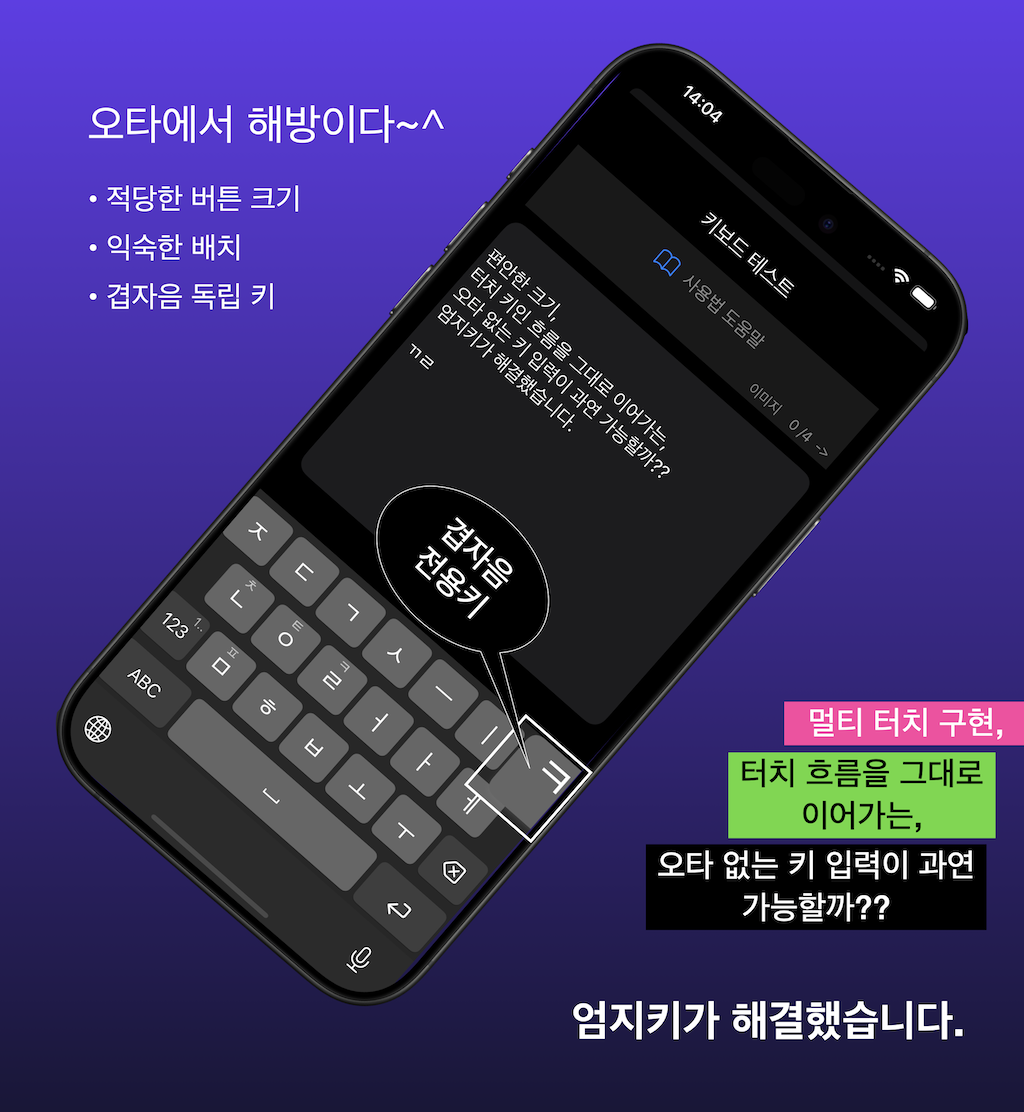
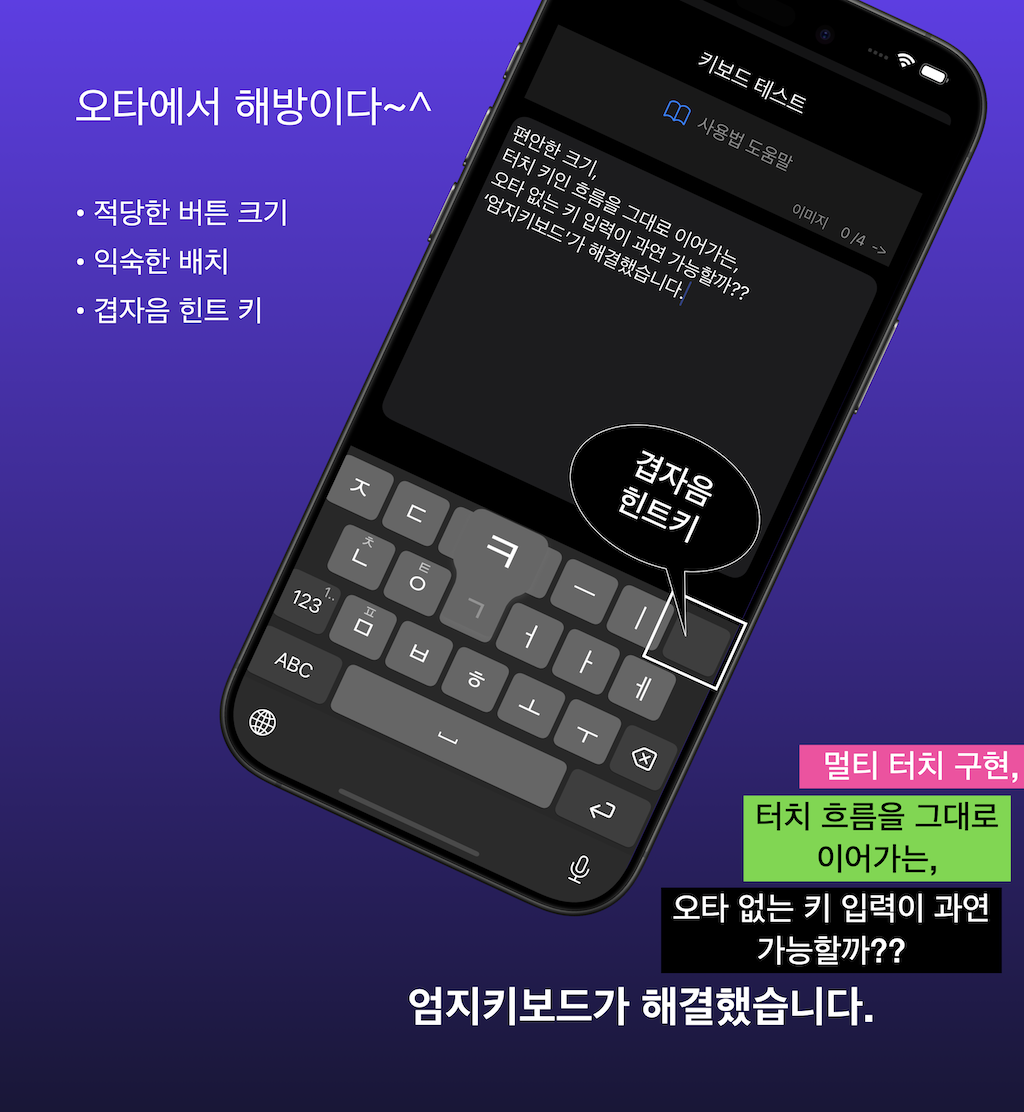
Add files via upload

diff --git a/manual.html b/manual.html
@@ -5,31 +5,30 @@
 	<meta name="viewport" content="width=device-width, initial-scale=1">
 	<meta name="generator" content="RocketCake">
 	<title></title>
-	<link rel="stylesheet" type="text/css" href="manual_html.css?h=e49b37a9">
+	<link rel="stylesheet" type="text/css" href="manual_html.css?h=509e1b2b">
 </head>
 <body>
 <div class="textstyle1">
-<div id="container_3a41f573"><div class="textstyle1"><div id="container_3ca14934"><div id="container_3ca14934_padding" ><div class="textstyle2"><div id="container_2e18e390"><div id="container_2e18e390_padding" ><div class="textstyle2"></div>
-<div class="textstyle1">  <span class="textstyle3">&#50628;&#51648;&#53412;&#48372;&#46300;</span>
+<span class="textstyle2">ZZZ</span><div id="container_3a41f573"><div class="textstyle1"><div id="container_3ca14934"><div id="container_3ca14934_padding" ><div class="textstyle3"><div id="container_2e18e390"><div id="container_2e18e390_padding" ><div class="textstyle3"></div>
+<div class="textstyle1">  <span class="textstyle4">&#50628;&#51648;&#53412;&#48372;&#46300;</span>
 </div>
-</div></div><div id="container_5e11d928"><div class="textstyle4"><div id="container_2d7b4969"><div class="textstyle4"><span class="textstyle5"><a href="index.html">Home</a></span><span class="textstyle5"><br/></span><span class="textstyle5"><a href="about.html">About</a></span><span class="textstyle5"><br/></span><span class="textstyle5"><a href="contact.html">Contact</a></span><span class="textstyle5"><br/></span><span class="textstyle6"><a href="manual.html">Manual</a></span><span class="textstyle5"><br/></span></div>
+</div></div><div id="container_5e11d928"><div class="textstyle5"><div id="container_2d7b4969"><div class="textstyle5"><span class="textstyle6"><a href="index.html">Home</a></span><span class="textstyle6"><br/></span><span class="textstyle6"><a href="about.html">About</a></span><span class="textstyle6"><br/></span><span class="textstyle6"><a href="contact.html">Contact</a></span><span class="textstyle6"><br/></span><span class="textstyle7"><a href="manual.html">Manual</a></span><span class="textstyle6"><br/></span></div>
+<div class="textstyle3"><span class="textstyle2"><br/></span></div>
 </div></div>
 </div></div>
-<div style="clear:both"></div></div></div><div id="container_42e1be39"><div class="textstyle1"><img src="rc_images/eumjikey1_wide_0021____.png" width="1024" height="1112" id="img_1a386bfe" alt="" title="" /></div>
-</div><span class="textstyle7"><br/></span><span class="textstyle8"><br/></span><div id="container_541cc4d"><div id="container_541cc4d_padding" ><div class="textstyle2"><span class="textstyle9"><br/></span><span class="textstyle10">&#8226; &#52488;&#49457;&#44284; &#51333;&#49457;&#51032; &#44217;&#51088;&#49548;&#47484; &#48516;&#47532;&#54616;&#44192;&#45796;&#45716; &#48516;&#47749;&#54620; &#51032;&#51648;&#44032; &#48152;&#50689;&#46104;&#45716; &#53412;&#48372;&#46300; &#44508;&#52825;&#51060; &#51080;&#49845;&#45768;&#45796; <br/>&#8226; &#51088;&#49548; &#44208;&#54633;&#51012; &#48736;&#47476;&#44172; &#54624; &#49688; &#51080;&#49845;&#45768;&#45796; <br/>&#8226; &#52488;&#49457; &#48143; &#51473;&#49457;&#51008; &#46160; &#44060;&#51032; &#50628;&#51648;&#47196; &#51032;&#49885;&#51201; &#47932;&#47532;&#51201;&#51004;&#47196; &#48516;&#47532;&#46104;&#50612; &#51080;&#51020;&#51012; &#44048;&#50504;&#54616;&#50688;&#49845;&#45768;&#45796; &#160;<br/>&#8226; &#47680;&#54000; &#53552;&#52824;&#44032; &#46120;&#51004;&#47196;&#50024; &#51088;&#50672;&#49828;&#47084;&#50868; &#53412; &#51077;&#47141;&#51060; &#46104;&#46020;&#47197; &#54616;&#50688;&#49845;&#45768;&#45796;</span><span class="textstyle11"> </span><span class="textstyle9"><br/><br/><br/><br/></span><span class="textstyle12">&#50628;&#51648;&#53412;&#48372;&#46300; &#47700;&#45684;&#50620;</span><span class="textstyle9"><br/><br/><br/></span><img src="rc_images/eumjikey_light_keynote_001.png" width="660" height="611" id="img_4b4e21bc" alt="" title="" /><div id="container_b26edf4"><div id="container_b26edf4_padding" ><div class="textstyle2">  <span class="textstyle13">&#44217;&#51088;&#51020; &#51204;&#50857;&#53412; </span>
-<span class="textstyle9"><br/></span><span class="textstyle11"><br/>1. &#51088;&#51020;&#51004;&#47196; &#44396;&#49457;&#46108; &#52488;&#49457;&#44284; &#51333;&#49457;&#51032; &#44217;&#51088;&#51020;(&#12594;, &#12619;...)&#51012; &#49373;&#49457;&#54616;&#45716; &#48324;&#46020;&#51032; &#44508;&#52825;&#51060; &#51080;&#49845;&#45768;&#45796;<br/>-&gt; &#44217;&#51088;&#51020; &#51204;&#50857;&#53412;&#47484; &#47676;&#51200;&#45572;&#47476;&#44256; &#54644;&#45817;&#53412;&#47484; &#54632;&#44760; &#46608;&#45716; &#49692;&#49436;&#45824;&#47196; &#45572;&#47493;&#45768;&#45796; <br/><br/>2. &#47784;&#51020;&#51064; &#51473;&#49457; &#49933;&#51088;&#49548;&#45716;(&#12629;, &#12635;...)&#45716;  '&#12627;', '&#12631;'&#47484; &#45908;&#48660;&#53364;&#47533;&#54633;&#45768;&#45796; <br/><br/>&#51060;&#47196;&#50024; '&#54617;&#44368;'&#50752; &#44057;&#51060; '&#12593;' '&#12593;'&#51012; &#48736;&#47476;&#44172; &#51077;&#47141;&#54616;&#50668;&#46020; &#50724;&#53440;&#44032; &#48156;&#49373;&#54616;&#51648; &#50506;&#44256; &#53412; &#51077;&#47141; &#49549;&#46020; &#46608;&#54620; &#48736;&#47493;&#45768;&#45796;   </span></div>
-</div></div><span class="textstyle9"><br/><br/><br/></span><img src="rc_images/eumjikey_light_keynote_002.png" width="658" height="486" id="img_7fa5239b" alt="" title="" /><div id="container_5ed9721c"><div id="container_5ed9721c_padding" ><div class="textstyle2"><span class="textstyle13">&#44217;&#51088;&#51020; '&#12619;' &#47564;&#46308;&#44592; 1)</span><span class="textstyle9"><br/></span><span class="textstyle11"><br/>&#44217;&#51088;&#51020; &#51204;&#50857;&#53412;(&#47676;&#51200; &#45572;&#47492;)&#50752; '&#12601;' &#53412;&#47484; &#54632;&#44760; &#45572;&#47476;&#44144;&#45208; &#46041;&#49884;&#50640; &#45572;&#47476;&#47732; &#46121;&#45768;&#45796;</span></div>
-</div></div><span class="textstyle9"><br/><br/><br/></span><img src="rc_images/eumjikey_light_keynote_003.png" width="658" height="488" id="img_15f9c727" alt="" title="" /><div id="container_4c8cc367"><div id="container_4c8cc367_padding" ><div class="textstyle2"><span class="textstyle13">&#44217;&#51088;&#51020; &#8216;&#12619;&#8217; &#47564;&#46308;&#44592; 2)</span><span class="textstyle11"><br/><br/>&#8216;&#12601;&#8217; &#53412;&#47484; 1&#52488; &#51060;&#49345; &#45572;&#47476;&#47732; &#46160; &#48264;&#51704; &#53412;&#47484; &#49440;&#53469;&#54624; &#49688; &#51080;&#49845;&#45768;&#45796;</span></div>
-</div></div><span class="textstyle9"><br/><br/><br/></span><img src="rc_images/eumjikey_light_keynote_004.png" width="652" height="487" id="img_1b166e26" alt="" title="" /><div id="container_4fe2a894"><div id="container_4fe2a894_padding" ><div class="textstyle2"><span class="textstyle13">&#49772;&#54532;&#53944;&#53412;(up&#53412;) &#49440;&#53469; 1)</span><span class="textstyle11"><br/><br/>&#50696;) ' ~ &#8216; &#53412;&#47484; &#50948;&#54644; ' &#12601; '&#53412;&#47484; &#45572;&#47476;&#51088; &#47560;&#51088; &#50948;&#47196; &#53909;&#44200; &#50732;&#47532;&#44592; &#54633;&#45768;&#45796;<br/></span></div>
-</div></div><span class="textstyle9"><br/><br/><br/></span><img src="rc_images/eumjikey_light_keynote_005.png" width="656" height="490" id="img_297d27c3" alt="" title="" /><div id="container_5a2c13b7"><div id="container_5a2c13b7_padding" ><div class="textstyle2"><span class="textstyle13">&#49772;&#54532;&#53944;&#53412;(up&#53412;) &#49440;&#53469; 2)</span><span class="textstyle11"><br/><br/>&#8216;123&#8217;&#53412;&#47484; 0.5&#52488; &#51060;&#49345; &#45572;&#47480; &#52292;&#47196; &#50628;&#51648;&#47484; '&#12601;' &#50948;&#52824;&#47196; &#45132;&#50612; &#49440;&#53469;&#54616;&#44144;&#45208; &#45796;&#47480; &#49552;&#44032;&#46973;&#51004;&#47196; &#45572;&#47493;&#45768;&#45796;</span></div>
-</div></div><span class="textstyle9"><br/><br/><br/></span><img src="rc_images/eumjikey_light_keynote_006.png" width="660" height="491" id="img_353a5805" alt="" title="" /><div id="container_7e510c81"><div id="container_7e510c81_padding" ><div class="textstyle2">  <span class="textstyle11">&#50628;&#51648;&#47484; &#46524;&#51648; &#50506;&#44256; &#45796;&#47480; &#50628;&#51648;&#47196; &#51088;&#49548;&#47484; &#45572;&#47476;&#45716; &#48373;&#49688; &#45572;&#47492; &#50756;&#48317; &#44396;&#54788;&#51004;&#47196; <br/>&#51088;&#49548; &#44208;&#54633;&#51060; &#48736;&#47476;&#44256; &#53412;&#51064;&#51060; &#48512;&#46300;&#47084;&#50864;&#47728; &#51088;&#50672;&#49828;&#47101;&#49845;&#45768;&#45796;</span>
+<div style="clear:both"></div></div></div><div id="container_42e1be39"><div class="textstyle3"><img src="rc_images/eumjikey_dark_wide_____002.png" width="1024" height="1112" id="img_1001a78e" alt="" title="" /></div>
+</div><span class="textstyle8"><br/></span><span class="textstyle9"><br/></span><div id="container_541cc4d"><div id="container_541cc4d_padding" ><div class="textstyle3"><span class="textstyle2"><br/></span><span class="textstyle10">&#8226; &#52488;&#49457;&#44284; &#51333;&#49457;&#51032; &#44217;&#51088;&#49548;&#47484; &#48516;&#47532;&#54616;&#44192;&#45796;&#45716; &#48516;&#47749;&#54620; &#51032;&#51648;&#44032; &#48152;&#50689;&#46104;&#45716; &#53412;&#48372;&#46300; &#44508;&#52825;&#51060; &#51080;&#49845;&#45768;&#45796; <br/>&#8226; &#51088;&#49548; &#44208;&#54633;&#51012; &#48736;&#47476;&#44172; &#54624; &#49688; &#51080;&#49845;&#45768;&#45796; <br/>&#8226; &#52488;&#49457; &#48143; &#51473;&#49457;&#51008; &#46160; &#44060;&#51032; &#50628;&#51648;&#47196; &#51032;&#49885;&#51201; &#47932;&#47532;&#51201;&#51004;&#47196; &#48516;&#47532;&#46104;&#50612; &#51080;&#51020;&#51012; &#44048;&#50504;&#54616;&#50688;&#49845;&#45768;&#45796; &#160;<br/>&#8226; &#47680;&#54000; &#53552;&#52824;&#44032; &#46120;&#51004;&#47196;&#50024; &#51088;&#50672;&#49828;&#47084;&#50868; &#53412; &#51077;&#47141;&#51060; &#46104;&#46020;&#47197; &#54616;&#50688;&#49845;&#45768;&#45796;</span><span class="textstyle11"> </span><span class="textstyle2"><br/><br/><br/><br/></span><span class="textstyle12">&#50628;&#51648;&#53412;&#48372;&#46300; &#47700;&#45684;&#50620;</span><span class="textstyle2"><br/></span><img src="rc_images/eumjikey_light_____001.png" width="660" height="599" id="img_76dfdc81" alt="" title="" /><div id="container_b26edf4"><div id="container_b26edf4_padding" ><div class="textstyle3">  <span class="textstyle13">&#44217;&#51088;&#51020; &#55180;&#53944; &#53412; </span>
+<span class="textstyle2"><br/></span><span class="textstyle11"><br/>1. &#51088;&#51020;&#51004;&#47196; &#44396;&#49457;&#46108; &#52488;&#49457;&#44284; &#51333;&#49457;&#51032; &#44217;&#51088;&#51020;(&#12594;, &#12619;...)&#51012; &#49373;&#49457;&#54616;&#45716; &#48324;&#46020;&#51032; &#44508;&#52825;&#51060; &#51080;&#49845;&#45768;&#45796;<br/>-&gt; &#44217;&#51088;&#51020; &#55180;&#53944;&#53412;&#47484; &#47676;&#51200;&#45572;&#47476;&#44256; &#54644;&#45817;&#53412;&#47484; &#45572;&#47476;&#44144;&#45208; &#50577;&#49552;&#51004;&#47196; &#54632;&#44760; &#45572;&#47493;&#45768;&#45796; <br/><br/>2. &#47784;&#51020;&#51064; &#51473;&#49457; &#44217;&#51088;&#49548;&#45716;(&#12629;, &#12635;...)&#45716;  '&#12627;', '&#12631;'&#47484; &#45908;&#48660;&#53364;&#47533;&#54633;&#45768;&#45796; <br/><br/>&#51060;&#47196;&#50024; '&#54617;&#44368;'&#50752; &#44057;&#51060; '&#12593;' '&#12593;'&#51012; &#48736;&#47476;&#44172; &#51077;&#47141;&#54616;&#50668;&#46020; &#50724;&#53440;&#44032; &#48156;&#49373;&#54616;&#51648; &#50506;&#44256; &#53412; &#51077;&#47141; &#49549;&#46020; &#46608;&#54620; &#48736;&#47493;&#45768;&#45796;   </span></div>
+</div></div><span class="textstyle2"><br/><br/><br/></span><img src="rc_images/eumjikey_light_____002.png" width="660" height="515" id="img_78055da2" alt="" title="" /><div id="container_5ed9721c"><div id="container_5ed9721c_padding" ><div class="textstyle3"><span class="textstyle13">&#44217;&#51088;&#51020; '&#12619;' &#47564;&#46308;&#44592; 1)</span><span class="textstyle2"><br/></span><span class="textstyle11"><br/>&#44217;&#51088;&#51020; &#55180;&#53944;&#53412;(&#47676;&#51200; &#45572;&#47492;) + '&#12593;' &#53412;&#47484; &#45572;&#47476;&#44144;&#45208; &#50577;&#49552;&#51004;&#47196; &#46041;&#49884;&#50640; &#45572;&#47476;&#47732; &#46121;&#45768;&#45796;</span></div>
+</div></div><span class="textstyle2"><br/><br/><br/></span><img src="rc_images/eumjikey_light_keynote_003.png" width="658" height="488" id="img_15f9c727" alt="" title="" /><div id="container_4c8cc367"><div id="container_4c8cc367_padding" ><div class="textstyle3"><span class="textstyle13">&#44217;&#51088;&#51020; &#8216;&#12619;&#8217; &#47564;&#46308;&#44592; 2)</span><span class="textstyle11"><br/><br/>&#8216;&#12601;&#8217; &#53412;&#47484; 1&#52488; &#51060;&#49345; &#45572;&#47476;&#47732; &#46160; &#48264;&#51704; &#53412;&#47484; &#49440;&#53469;&#54624; &#49688; &#51080;&#49845;&#45768;&#45796;</span></div>
+</div></div><span class="textstyle2"><br/><br/><br/></span><img src="rc_images/eumjikey_light_keynote_004.png" width="652" height="487" id="img_1b166e26" alt="" title="" /><div id="container_4fe2a894"><div id="container_4fe2a894_padding" ><div class="textstyle3"><span class="textstyle13">&#49772;&#54532;&#53944;&#53412;(up&#53412;) &#49440;&#53469; 1)</span><span class="textstyle11"><br/><br/>&#50696;) ' ~ &#8216; &#53412;&#47484; &#50948;&#54644; ' &#12601; '&#53412;&#47484; &#45572;&#47476;&#51088; &#47560;&#51088; &#50948;&#47196; &#53909;&#44200; &#50732;&#47532;&#44592; &#54633;&#45768;&#45796;<br/></span></div>
+</div></div><span class="textstyle2"><br/><br/><br/></span><img src="rc_images/eumjikey_light_keynote_005.png" width="656" height="490" id="img_297d27c3" alt="" title="" /><div id="container_5a2c13b7"><div id="container_5a2c13b7_padding" ><div class="textstyle3"><span class="textstyle13">&#49772;&#54532;&#53944;&#53412;(up&#53412;) &#49440;&#53469; 2)</span><span class="textstyle11"><br/><br/>&#8216;123&#8217;&#53412;&#47484; 0.5&#52488; &#51060;&#49345; &#45572;&#47480; &#52292;&#47196; &#50628;&#51648;&#47484; '&#12601;' &#50948;&#52824;&#47196; &#45132;&#50612; &#49440;&#53469;&#54616;&#44144;&#45208; &#45796;&#47480; &#49552;&#44032;&#46973;&#51004;&#47196; &#45572;&#47493;&#45768;&#45796;</span></div>
+</div></div><span class="textstyle2"><br/><br/><br/></span><img src="rc_images/eumjikey_light_keynote_006.png" width="660" height="491" id="img_353a5805" alt="" title="" /><div id="container_7e510c81"><div id="container_7e510c81_padding" ><div class="textstyle3">  <span class="textstyle11">&#50628;&#51648;&#47484; &#46524;&#51648; &#50506;&#44256; &#45796;&#47480; &#50628;&#51648;&#47196; &#51088;&#49548;&#47484; &#45572;&#47476;&#45716; &#48373;&#49688; &#45572;&#47492; &#50756;&#48317; &#44396;&#54788;&#51004;&#47196; <br/>&#51088;&#49548; &#44208;&#54633;&#51060; &#48736;&#47476;&#44256; &#53412;&#51064;&#51060; &#48512;&#46300;&#47084;&#50864;&#47728; &#51088;&#50672;&#49828;&#47101;&#49845;&#45768;&#45796;</span>
 </div>
-</div></div><span class="textstyle9"><br/><br/></span><img src="rc_images/eumjikey_light_keynote_007.png" width="660" height="1367" id="img_71fbe97c" alt="" title="" /><div id="container_4a065c39"><div id="container_4a065c39_padding" ><div class="textstyle2">  <span class="textstyle11"><br/><br/>&#50628;&#51648;&#53412;&#48372;&#46300; &#50741;&#49496; &#47588;&#45684;&#51077;&#45768;&#45796;</span>
+</div></div><span class="textstyle2"><br/><br/></span><img src="rc_images/eumjikey_light_keynote_007.png" width="660" height="1367" id="img_71fbe97c" alt="" title="" /><div id="container_4a065c39"><div id="container_4a065c39_padding" ><div class="textstyle3">  <span class="textstyle11"><br/><br/>&#50628;&#51648;&#53412;&#48372;&#46300; &#50741;&#49496; &#47588;&#45684;&#51077;&#45768;&#45796;</span>
 </div>
-</div></div><span class="textstyle9"><br/></span></div>
+</div></div><span class="textstyle2"><br/></span></div>
 <div style="clear:both"></div></div></div><span class="textstyle14"><br/></span><span class="textstyle15">Copyright 2025 &#51648;&#45824;&#49440;. All rights reserved</span><span class="textstyle14"><br/></span></div>
 </div>  </div>
-<div class="textstyle2">
-<span class="textstyle9">&#12619;</span><span class="textstyle9">&#12619;</span>  </div>
 </body>
 </html>

diff --git a/index.html b/index.html
@@ -5,7 +5,7 @@
 	<meta name="viewport" content="width=device-width, initial-scale=1">
 	<meta name="generator" content="RocketCake">
 	<title></title>
-	<link rel="stylesheet" type="text/css" href="index_html.css?h=58b86620">
+	<link rel="stylesheet" type="text/css" href="index_html.css?h=99ebac87">
 </head>
 <body>
 <div class="textstyle1">
@@ -16,40 +16,35 @@
 <div class="textstyle2"><span class="textstyle5"><br/></span></div>
 </div></div>
 </div></div>
-<div style="clear:both"></div></div></div><img src="rc_images/eumjikey1_wide_001midle.png" width="1024" height="1112" id="img_42787e73" alt="" title="" /><div id="container_4a5a90a8"><div class="textstyle1"><span class="textstyle7"><br/></span><span class="textstyle8"><br/><br/></span><a href="about.html" style="text-decoration:none"><div id="button_263f8a00"><div class="vcenterstyle1"><div class="vcenterstyle2"><div class="textstyle2"></div>
+<div style="clear:both"></div></div></div><div id="container_4a5a90a8"><div class="textstyle2"><img src="rc_images/eumjikey_dark_wide_____001.png" width="1024" height="1112" id="img_4bd8ccd3" alt="" title="" /></div>
+<div class="textstyle1"><span class="textstyle7"><br/></span><span class="textstyle8"><br/><br/></span><a href="about.html" style="text-decoration:none"><div id="button_263f8a00"><div class="vcenterstyle1"><div class="vcenterstyle2"><div class="textstyle2"></div>
 <div class="textstyle1">  <span class="textstyle9">About</span>
 </div>
 </div></div></div></a><span class="textstyle7">       </span><a href="contact.html" style="text-decoration:none"><div id="button_6f4409d4"><div class="vcenterstyle1"><div class="vcenterstyle2"><div class="textstyle1">  <span class="textstyle9">Contact</span>
 </div>
 <div class="textstyle2"></div>
-</div></div></div></a><span class="textstyle7"><br/><br/><br/></span><div id="container_722b2bda"><div id="container_722b2bda_padding" ><div class="textstyle2"><div id="container_76c03d5e"><div id="container_76c03d5e_padding" ><div class="textstyle2"><span class="textstyle10">&gt; &#50528;&#54540; &#50545;&#49828;&#53664;&#50612; &#45796;&#50868;&#47196;&#46300;:   </span><span class="textstyle10"><a href="https://apps.apple.com/kr/app/%EC%97%84%EC%A7%80%ED%82%A4/id6740153632">&#50628;&#51648;&#53412;&#48372;&#46300;</a></span><span class="textstyle10"> </span><img src="rc_images/___29____.png" width="256" height="256" id="img_56357dc7" alt="" title="" /></div>
-<div style="clear:both"></div></div></div><div id="container_8db7367"><div id="container_8db7367_padding" ><div class="textstyle2">  <a href="manual.html" style="text-decoration:none"><div id="button_4710ac38">
-    <div class="vcenterstyle1"><div class="vcenterstyle2">      <div class="textstyle2">
-        </div>
-      <div class="textstyle1">
-        <span class="textstyle11">Manual</span>
-        </div>
-      </div></div>
-    </div></a>
+</div></div></div></a><span class="textstyle7"><br/><br/><br/></span><div id="container_722b2bda"><div id="container_722b2bda_padding" ><div class="textstyle2"><div id="container_76c03d5e"><div id="container_76c03d5e_padding" ><div class="textstyle2"><span class="textstyle10">&gt; &#50528;&#54540; &#50545;&#49828;&#53664;&#50612; &#45796;&#50868;&#47196;&#46300;:   </span><span class="textstyle10"><a href="https://apps.apple.com/kr/app/%EC%97%84%EC%A7%80%ED%82%A4/id6740153632">&#50628;&#51648;&#53412;&#48372;&#46300;</a></span><span class="textstyle10"> </span><img src="rc_images/___29____.png" width="256" height="256" id="img_56357dc7" alt="" title="" /><a href="manual.html" style="text-decoration:none"><div id="button_4710ac38"><div class="vcenterstyle1"><div class="vcenterstyle2"><div class="textstyle2"></div>
+<div class="textstyle1">  <span class="textstyle11">Manual</span>
 </div>
+</div></div></div></a></div>
 <div style="clear:both"></div></div></div></div>
 <div style="clear:both"></div></div></div></div>
 </div><span class="textstyle12"><br/><br/></span><span class="textstyle13"><br/></span></div>
-<div class="textstyle1"><div id="container_28baa5e8"><div id="container_28baa5e8_padding" ><div class="textstyle2">  <span class="textstyle13">&#50500;&#51060;&#54256; &#51221;&#44508; &#53412;&#48372;&#46300;&#44032; &#48520;&#54200;&#54616;&#44172; &#45712;&#44788;&#48376; &#51201;&#51060; &#51080;&#45796;&#47732; &#44536;&#44163;&#51008; &#50500;&#47560;, &#51088;&#49548; &#44208;&#54633;&#51004;&#47196; &#44396;&#49457;&#46104;&#45716; &#54620;&#44544;&#51032; &#53945;&#49457;&#51012; &#51228;&#45824;&#47196; &#48152;&#50689;&#54616;&#51648; &#47803;&#54616;&#45716; &#54620;&#44228;&#47484; &#45712;&#45180;&#44592; &#46412;&#47928;&#51068; &#44163;&#51077;&#45768;&#45796;<br/>&#51333;&#49457;&#44284; &#52488;&#49457;&#51012; &#54632;&#44760; &#49324;&#50857;&#54616;&#44256; &#51088;&#49548; &#44208;&#54633;&#51012; &#53945;&#49457;&#51004;&#47196; &#54616;&#45716; &#54620;&#44544;&#51012; &#50728;&#51204;&#55176; &#49324;&#50857;&#54624; &#49688; &#51080;&#50612;&#50556;&#44192;&#49845;&#45768;&#45796;<br/><br/>&#8226; &#52488;&#49457; &#46608;&#45716; &#51333;&#49457;&#51032; &#44217;&#51088;&#51020;&#51012; &#48516;&#47532;&#54616;&#44192;&#45796;&#45716; &#48516;&#47749;&#54620; &#51032;&#51648;&#44032; &#48152;&#50689;&#46104;&#45716; &#53412;&#48372;&#46300; &#44508;&#52825;&#51060; &#51080;&#50612;&#50556; &#54633;&#45768;&#45796;<br/>&#8226; &#51088;&#49548; &#44208;&#54633;&#51012; &#48736;&#47476;&#44172; &#54624; &#49688; &#51080;&#50612;&#50556; &#54633;&#45768;&#45796;<br/>&#8226; &#52488;&#49457; &#48143; &#51473;&#49457;&#51008; &#46160; &#44060;&#51032; &#50628;&#51648;&#47196; &#51032;&#49885;&#51201; &#47932;&#47532;&#51201;&#51004;&#47196; &#48516;&#47532;&#46104;&#50612; &#51080;&#51020;&#51012; &#44048;&#50504;&#54644;&#50556; &#54633;&#45768;&#45796;&#160;<br/>&#8226; &#47680;&#54000; &#53552;&#52824;&#44032; &#46120;&#51004;&#47196;&#50024; &#51088;&#50672;&#49828;&#47084;&#50868; &#53412; &#51077;&#47141;&#51060; &#46104;&#46020;&#47197; &#54616;&#50668;&#50556;&#44192;&#49845;&#45768;&#45796;</span>
+<div class="textstyle1"><div id="container_28baa5e8"><div id="container_28baa5e8_padding" ><div class="textstyle2">  <span class="textstyle14">&#50500;&#51060;&#54256; &#51221;&#44508; &#53412;&#48372;&#46300;&#44032; &#48520;&#54200;&#54616;&#44172; &#45712;&#44788;&#48376; &#51201;&#51060; &#51080;&#45796;&#47732; &#44536;&#44163;&#51008; &#50500;&#47560;, &#51088;&#49548; &#44208;&#54633;&#51004;&#47196; &#44396;&#49457;&#46104;&#45716; &#54620;&#44544;&#51032; &#53945;&#49457;&#51012; &#51228;&#45824;&#47196; &#48152;&#50689;&#54616;&#51648; &#47803;&#54616;&#45716; &#54620;&#44228;&#47484; &#45712;&#45180;&#44592; &#46412;&#47928;&#51068; &#44163;&#51077;&#45768;&#45796;<br/>&#51333;&#49457;&#44284; &#52488;&#49457;&#51012; &#54632;&#44760; &#49324;&#50857;&#54616;&#44256; &#51088;&#49548; &#44208;&#54633;&#51012; &#53945;&#49457;&#51004;&#47196; &#54616;&#45716; &#54620;&#44544;&#51012; &#50728;&#51204;&#55176; &#49324;&#50857;&#54624; &#49688; &#51080;&#50612;&#50556;&#44192;&#49845;&#45768;&#45796;<br/><br/>&#8226; &#52488;&#49457; &#46608;&#45716; &#51333;&#49457;&#51032; &#44217;&#51088;&#51020;&#51012; &#48516;&#47532;&#54616;&#44192;&#45796;&#45716; &#48516;&#47749;&#54620; &#51032;&#51648;&#44032; &#48152;&#50689;&#46104;&#45716; &#53412;&#48372;&#46300; &#44508;&#52825;&#51060; &#51080;&#50612;&#50556; &#54633;&#45768;&#45796;<br/>&#8226; &#51088;&#49548; &#44208;&#54633;&#51012; &#48736;&#47476;&#44172; &#54624; &#49688; &#51080;&#50612;&#50556; &#54633;&#45768;&#45796;<br/>&#8226; &#52488;&#49457; &#48143; &#51473;&#49457;&#51008; &#46160; &#44060;&#51032; &#50628;&#51648;&#47196; &#51032;&#49885;&#51201; &#47932;&#47532;&#51201;&#51004;&#47196; &#48516;&#47532;&#46104;&#50612; &#51080;&#51020;&#51012; &#44048;&#50504;&#54644;&#50556; &#54633;&#45768;&#45796;&#160;<br/>&#8226; &#47680;&#54000; &#53552;&#52824;&#44032; &#46120;&#51004;&#47196;&#50024; &#51088;&#50672;&#49828;&#47084;&#50868; &#53412; &#51077;&#47141;&#51060; &#46104;&#46020;&#47197; &#54616;&#50668;&#50556;&#44192;&#49845;&#45768;&#45796;</span>
 </div>
 </div></div></div>
-<div class="textstyle2"><span class="textstyle12"><br/><br/></span><div id="container_749be54d"><div id="container_749be54d_padding" ><div class="textstyle1"><span class="textstyle14"><br/></span><div id="container_7ea221bd"><div id="container_7ea221bd_padding" ><div class="textstyle2"><span class="textstyle14">&#50628;&#51648;&#53412;&#48372;&#46300;&#44032; &#51080;&#49845;&#45768;&#45796;!<br/><br/></span><span class="textstyle15">&#54200;&#50504;&#54620; &#48260;&#53948; &#53356;&#44592;, <br/>&#53552;&#52824; &#53412;&#51064; &#55120;&#47492;&#51012; &#44536;&#45824;&#47196; &#51060;&#50612;&#44032;&#45716;,<br/>&#50724;&#53440; &#50630;&#45716; &#53412; &#51077;&#47141;&#51060; &#44032;&#45733;&#54633;&#45768;&#45796;.</span></div>
-</div></div><span class="textstyle16"><br/><br/></span></div>
-<div style="clear:both"></div></div></div><div id="container_459f1faa"><div id="container_459f1faa_padding" ><div class="textstyle1"><span class="textstyle17"><br/></span><div id="container_639a229a"><div id="container_639a229a_padding" ><div class="textstyle1"><div id="container_10bc54f8"><div class="textstyle2"><span class="textstyle18">&#52286;&#50500;&#50724;&#49884;&#45716; &#44600;<br/><br/></span><ul id="ul_63670915" class="ulstyle1">
-<li><span class="textstyle18">Tel: 010-8971-1440</span></li>
-<li><span class="textstyle18">Email: jidesun@gmail.com</span></li>
-<li><span class="textstyle18">&#51452;&#49548;: &#44221;&#44592;&#46020; &#50724;&#49328;&#49884; &#44432;&#47532;&#49324;&#47196; 29&#48264;&#44600; 13, &#49464;&#44368;&#50864;&#45224;&#54140;&#49828;&#53944;&#48716; 106&#46041;101&#54840;</span></li>
-<li><span class="textstyle18">Office open: &#44277;&#55092;&#51068; &#51228;&#50808;, 09:00-18:00</span></div>
+<div class="textstyle2"><span class="textstyle12"><br/><br/></span><div id="container_749be54d"><div id="container_749be54d_padding" ><div class="textstyle1"><span class="textstyle15"><br/></span><div id="container_7ea221bd"><div id="container_7ea221bd_padding" ><div class="textstyle2"><span class="textstyle15">&#50628;&#51648;&#53412;&#48372;&#46300;&#44032; &#51080;&#49845;&#45768;&#45796;!<br/><br/></span><span class="textstyle16">&#54200;&#50504;&#54620; &#48260;&#53948; &#53356;&#44592;, <br/>&#53552;&#52824; &#53412;&#51064; &#55120;&#47492;&#51012; &#44536;&#45824;&#47196; &#51060;&#50612;&#44032;&#45716;,<br/>&#50724;&#53440; &#50630;&#45716; &#53412; &#51077;&#47141;&#51060; &#44032;&#45733;&#54633;&#45768;&#45796;.<br/></span></div>
+</div></div><span class="textstyle17"><br/><br/></span></div>
+<div style="clear:both"></div></div></div><div id="container_459f1faa"><div id="container_459f1faa_padding" ><div class="textstyle1"><span class="textstyle18"><br/></span><div id="container_639a229a"><div id="container_639a229a_padding" ><div class="textstyle1"><div id="container_10bc54f8"><div class="textstyle2"><span class="textstyle19">&#52286;&#50500;&#50724;&#49884;&#45716; &#44600;<br/><br/></span><ul id="ul_63670915" class="ulstyle1">
+<li><span class="textstyle19">Tel: 010-8971-1440</span></li>
+<li><span class="textstyle19">Email: jidesun@gmail.com</span></li>
+<li><span class="textstyle19">&#51452;&#49548;: &#44221;&#44592;&#46020; &#50724;&#49328;&#49884; &#44432;&#47532;&#49324;&#47196; 29&#48264;&#44600; 13, &#49464;&#44368;&#50864;&#45224;&#54140;&#49828;&#53944;&#48716; 106&#46041;101&#54840;</span></li>
+<li><span class="textstyle19">Office open: &#44277;&#55092;&#51068; &#51228;&#50808;, 09:00-18:00</span></div>
 </li>
 </ul>
-</div><div id="container_8f68c31"><div class="textstyle2">  <span class="textstyle18"><a href="privacy.html">&#44060;&#51064;&#51221;&#48372;&#52376;&#47532;&#48169;&#52840;</a></span>
+</div><div id="container_8f68c31"><div class="textstyle2">  <span class="textstyle19"><a href="privacy.html">&#44060;&#51064;&#51221;&#48372;&#52376;&#47532;&#48169;&#52840;</a></span>
 </div>
-</div><span class="textstyle7"><br/></span><span class="textstyle19">Copyright 2025 &#51648;&#45824;&#49440;. All rights reserved.</span></div>
+</div><span class="textstyle7"><br/></span><span class="textstyle20">Copyright 2025 &#51648;&#45824;&#49440;. All rights reserved.</span></div>
 <div style="clear:both"></div></div></div></div>
 <div style="clear:both"></div></div></div></div>
 </div>  </div>

diff --git a/index_html.css b/index_html.css
@@ -8,12 +8,12 @@ a:hover { color:#B2B3B4; }
 #button_6f4409d4 { vertical-align: bottom; border-radius: 3px; position:relative; display: inline-block; width:150px; height:40px; background-color:#6E17FB;  }
 #button_6f4409d4:hover { background-color:#9F65FD;  }
 #button_6f4409d4:hover span { color:#CDCDCD; }
-#button_4710ac38 { vertical-align: top; border-radius: 3px; position:relative; display: inline-block; width:150px; height:40px; background-color:#00893C;  }
+#button_4710ac38 { vertical-align: top; border-radius: 3px; position:relative; display: inline-block; margin:0px 0px 0px 20px;width:120px; height:40px; background-color:#00893C;  }
 #button_4710ac38:hover { background-color:#27AE60;  }
 #button_4710ac38:hover span { color:#CDCDCD; }
 body { background-color:#FFFFFF; padding:0;  margin: 0; }
 .textstyle1 { text-align:center; }
-#container_83d87bc { vertical-align: top; position:relative; display: inline-block; width:90%; min-height:2189px; max-width:1600px; background:none;  }
+#container_83d87bc { vertical-align: top; position:relative; display: inline-block; width:90%; min-height:1788px; max-width:1600px; background:none;  }
 .textstyle2 { text-align:left; }
 #container_60320bed { vertical-align: top; position:relative; display: inline-block; width:100%; min-height:65px; background-color:#222222;  }
 #container_60320bed_padding { margin: 10px; display: block;  }
@@ -25,8 +25,8 @@ body { background-color:#FFFFFF; padding:0;  margin: 0; }
 #container_77609974 { vertical-align: top; position:relative; display: inline-block; width:100%; background:none;  }
 .textstyle5 { font-size:14pt; font-family:Arial, Helvetica, sans-serif; color:#FFFFFF;  }
 .textstyle6 { font-size:14pt; font-family:Arial, Helvetica, sans-serif; color:#FFFFFF; font-weight:bold;  }
-#img_42787e73 { vertical-align: bottom; position:relative; display: inline-block; width:100%; background:none; height:auto;  }
 #container_4a5a90a8 { vertical-align: top; position:relative; display: inline-block; width:100%; min-height:215px; background:none;  }
+#img_4bd8ccd3 { vertical-align: bottom; position:relative; display: inline-block; width:100%; background:none; height:auto;  }
 .textstyle7 { font-size:12pt; font-family:Arial, Helvetica, sans-serif; color:#000000;  }
 .textstyle8 { font-size:26pt; font-family:Arial, Helvetica, sans-serif; color:#FFFFFF; text-shadow: 2px 2px 2px rgba(0, 0, 0, 0.784314);  }
 .vcenterstyle1 { display: table; width: 100%; height: 100%; }
@@ -34,34 +34,33 @@ body { background-color:#FFFFFF; padding:0;  margin: 0; }
 .textstyle9 { font-size:12pt; font-family:Segoe, 'Segoe UI', 'Helvetica Neue', sans-serif; color:#FFFFFF;  }
 #container_722b2bda { vertical-align: top; position:relative; display: inline-block; width:90%; min-height:53px; background:none;  }
 #container_722b2bda_padding { margin: 10px 10px 10px 0px;display: block;  }
-#container_76c03d5e { vertical-align: top; position:relative; display: inline-block; width:40%; min-height:49px; background:none;  }
+#container_76c03d5e { vertical-align: top; position:relative; display: inline-block; width:100%; min-height:49px; background:none;  }
 #container_76c03d5e_padding { margin: 10px; display: block;  }
 .textstyle10 { font-size:15pt; font-family:Arial, Helvetica, sans-serif; color:#000000;  }
-#img_56357dc7 { vertical-align: bottom; border-radius: 10px; position:relative; display: inline-block; width:5%; background:none; height:auto;  }
-#container_8db7367 { vertical-align: top; position:relative; display: inline-block; width:50%; min-height:47px; background:none;  }
-#container_8db7367_padding { margin: 10px; display: block;  }
+#img_56357dc7 { vertical-align: bottom; border-radius: 10px; position:relative; display: inline-block; margin:0px 0px 0px 5px;width:7%; background:none; height:auto;  }
 .textstyle11 { font-size:12pt; font-family:'Palatino Linotype', 'Book Antiqua3', Palatino, serif; color:#FFFFFF;  }
-.textstyle12 { font-size:32pt; font-family:Tahoma, Geneva, sans-serif; color:#20242E;  }
-.textstyle13 { font-size:15pt; font-family:Segoe, 'Segoe UI', 'Helvetica Neue', sans-serif; color:#20242E; line-height: 1.5;  }
+.textstyle12 { font-size:20pt; font-family:Tahoma, Geneva, sans-serif; color:#20242E;  }
+.textstyle13 { font-size:20pt; font-family:Segoe, 'Segoe UI', 'Helvetica Neue', sans-serif; color:#20242E; line-height: 1.5;  }
 #container_28baa5e8 { vertical-align: top; position:relative; display: inline-block; width:90%; min-height:152px; background:none;  }
 #container_28baa5e8_padding { margin: 10px; display: block;  }
+.textstyle14 { font-size:15pt; font-family:Segoe, 'Segoe UI', 'Helvetica Neue', sans-serif; color:#20242E; line-height: 1.5;  }
 #container_749be54d { vertical-align: top; position:relative; display: inline-block; width:100%; min-height:305px; background-color:#494949;  }
 #container_749be54d_padding { margin: 10px; display: block;  }
-.textstyle14 { font-size:32pt; font-family:Segoe, 'Segoe UI', 'Helvetica Neue', sans-serif; color:#FFFFFF;  }
+.textstyle15 { font-size:32pt; font-family:Segoe, 'Segoe UI', 'Helvetica Neue', sans-serif; color:#FFFFFF;  }
 #container_7ea221bd { vertical-align: top; position:relative; display: inline-block; width:90%; min-height:150px; background:none;  }
 #container_7ea221bd_padding { margin: 10px; display: block;  }
-.textstyle15 { font-size:15pt; font-family:Segoe, 'Segoe UI', 'Helvetica Neue', sans-serif; color:#FFFFFF; line-height: 1.5;  }
-.textstyle16 { font-size:32pt; font-family:'Palatino Linotype', 'Book Antiqua3', Palatino, serif; color:#20242E;  }
+.textstyle16 { font-size:15pt; font-family:Segoe, 'Segoe UI', 'Helvetica Neue', sans-serif; color:#FFFFFF; line-height: 1.5;  }
+.textstyle17 { font-size:32pt; font-family:'Palatino Linotype', 'Book Antiqua3', Palatino, serif; color:#20242E;  }
 #container_459f1faa { vertical-align: top; position:relative; display: inline-block; width:100%; min-height:150px; background-color:#FFFFFF;  }
 #container_459f1faa_padding { margin: 10px; display: block;  }
-.textstyle17 { font-size:16pt; font-family:Segoe, 'Segoe UI', 'Helvetica Neue', sans-serif; color:#000000;  }
+.textstyle18 { font-size:16pt; font-family:Segoe, 'Segoe UI', 'Helvetica Neue', sans-serif; color:#000000;  }
 #container_639a229a { vertical-align: top; position:relative; display: inline-block; width:90%; min-height:150px; background:none;  }
 #container_639a229a_padding { margin: 10px; display: block;  }
 #container_10bc54f8 { vertical-align: top; position:relative; display: inline-block; width:67%; min-height:150px; background:none;  }
-.textstyle18 { font-size:10pt; font-family:Segoe, 'Segoe UI', 'Helvetica Neue', sans-serif; color:#000000;  }
+.textstyle19 { font-size:10pt; font-family:Segoe, 'Segoe UI', 'Helvetica Neue', sans-serif; color:#000000;  }
 .ulstyle1 { margin:0; font-size: 10pt; color:#000000;  }
 #container_8f68c31 { vertical-align: top; position:relative; display: inline-block; width:33%; min-height:150px; background:none;  }
-.textstyle19 { font-size:8pt; font-family:Arial, Helvetica, sans-serif; color:#000000;  }
+.textstyle20 { font-size:8pt; font-family:Arial, Helvetica, sans-serif; color:#000000;  }
 @media only screen and (max-width: 640px)
 {
 		#container_1383d4b1 * span { font-size:15pt;  }
@@ -74,5 +73,4 @@ body { background-color:#FFFFFF; padding:0;  margin: 0; }
 @media only screen and (max-width: 400px)
 {
 		#container_76c03d5e { width:100%;  }
-		#container_8db7367 { width:100%;  }
 }

diff --git a/manual_html.css b/manual_html.css
@@ -4,33 +4,33 @@ a:active { color:#0280E1; }
 a:hover { color:#B2B3B4; } 
 body { background-color:#FFFFFF; padding:0;  margin: 0; }
 .textstyle1 { text-align:center; }
+.textstyle2 { font-size:12pt; font-family:Arial, Helvetica, sans-serif; color:#000000;  }
 #container_3a41f573 { vertical-align: top; position:relative; display: inline-block; width:100%; background:none;  }
 #container_3ca14934 { vertical-align: top; position:relative; display: inline-block; width:100%; min-height:65px; background-color:#222222;  }
 #container_3ca14934_padding { margin: 10px; display: block;  }
-.textstyle2 { text-align:left; }
+.textstyle3 { text-align:left; }
 #container_2e18e390 { vertical-align: top; position:relative; display: inline-block; width:39%; min-height:60px; background:none;  }
 #container_2e18e390_padding { margin: 10px; display: block;  }
-.textstyle3 { font-size:22pt; font-family:Segoe, 'Segoe UI', 'Helvetica Neue', sans-serif; color:#FFFFFF; font-weight:bold;  }
+.textstyle4 { font-size:22pt; font-family:Segoe, 'Segoe UI', 'Helvetica Neue', sans-serif; color:#FFFFFF; font-weight:bold;  }
 #container_5e11d928 { vertical-align: top; position:relative; display: inline-block; width:60%; min-height:50px; background:none;  }
-.textstyle4 { text-align:right; }
+.textstyle5 { text-align:right; }
 #container_2d7b4969 { vertical-align: top; position:relative; display: inline-block; width:100%; background:none;  }
-.textstyle5 { font-size:14pt; font-family:Arial, Helvetica, sans-serif; color:#FFFFFF;  }
-.textstyle6 { font-size:14pt; font-family:Arial, Helvetica, sans-serif; color:#FFFFFF; font-weight:bold;  }
+.textstyle6 { font-size:14pt; font-family:Arial, Helvetica, sans-serif; color:#FFFFFF;  }
+.textstyle7 { font-size:14pt; font-family:Arial, Helvetica, sans-serif; color:#FFFFFF; font-weight:bold;  }
 #container_42e1be39 { vertical-align: top; border-radius: 0px 0px 15px 15px; position:relative; display: inline-block; width:100%; min-height:473px; background-color:#2B252D; background: linear-gradient(to bottom, #9A9AE0, #2B252D);  }
-#img_1a386bfe { vertical-align: bottom; position:relative; display: inline-block; margin:30px; width:100%; background:none; height:auto;  }
-.textstyle7 { font-size:15pt; font-family:Segoe, 'Segoe UI', 'Helvetica Neue', sans-serif; color:#20242E;  }
-.textstyle8 { font-size:15pt; font-family:Tahoma, Geneva, sans-serif; color:#20242E;  }
+#img_1001a78e { vertical-align: bottom; position:relative; display: inline-block; margin:20px; width:100%; background:none; height:auto;  }
+.textstyle8 { font-size:15pt; font-family:Segoe, 'Segoe UI', 'Helvetica Neue', sans-serif; color:#20242E;  }
+.textstyle9 { font-size:15pt; font-family:Tahoma, Geneva, sans-serif; color:#20242E;  }
 #container_541cc4d { vertical-align: top; position:relative; display: inline-block; width:90%; min-height:150px; background:none;  }
 #container_541cc4d_padding { margin: 10px; display: block;  }
-.textstyle9 { font-size:12pt; font-family:Arial, Helvetica, sans-serif; color:#000000;  }
 .textstyle10 { font-size:16pt; font-family:Arial, Helvetica, sans-serif; color:#000000;  }
 .textstyle11 { font-size:14pt; font-family:Arial, Helvetica, sans-serif; color:#000000;  }
 .textstyle12 { font-size:18pt; font-family:Arial, Helvetica, sans-serif; color:#000000;  }
-#img_4b4e21bc { vertical-align: bottom; position:relative; display: inline-block; width:50%; background:none; height:auto;  }
+#img_76dfdc81 { vertical-align: bottom; position:relative; display: inline-block; width:50%; background:none; height:auto;  }
 #container_b26edf4 { vertical-align: top; position:relative; display: inline-block; width:48%; min-height:150px; background:none;  }
 #container_b26edf4_padding { margin: 20px; display: block;  }
 .textstyle13 { font-size:14pt; font-family:Arial, Helvetica, sans-serif; color:#000000; font-weight:bold;  }
-#img_7fa5239b { vertical-align: bottom; position:relative; display: inline-block; width:50%; background:none; height:auto;  }
+#img_78055da2 { vertical-align: bottom; position:relative; display: inline-block; width:50%; background:none; height:auto;  }
 #container_5ed9721c { vertical-align: top; position:relative; display: inline-block; width:48%; min-height:150px; background:none;  }
 #container_5ed9721c_padding { margin: 20px; display: block;  }
 #img_15f9c727 { vertical-align: bottom; position:relative; display: inline-block; width:50%; background:none; height:auto;  }

diff --git a/privacy.html b/privacy.html
@@ -5,7 +5,7 @@
 	<meta name="viewport" content="width=device-width, initial-scale=1">
 	<meta name="generator" content="RocketCake">
 	<title></title>
-	<link rel="stylesheet" type="text/css" href="privacy_html.css?h=7f9c5311">
+	<link rel="stylesheet" type="text/css" href="privacy_html.css?h=c504428b">
 </head>
 <body>
 <div class="textstyle1">
@@ -13,6 +13,7 @@
 <div class="textstyle1">  <span class="textstyle3">&#50628;&#51648;&#53412;&#48372;&#46300;</span>
 </div>
 </div></div><div id="container_6b0ba376"><div class="textstyle4"><div id="container_367bebf6"><div class="textstyle4"><span class="textstyle5"><a href="index.html">Home</a></span><span class="textstyle5"><br/></span><span class="textstyle5"><a href="about.html">About</a></span><span class="textstyle5"><br/></span><span class="textstyle5"><a href="contact.html">Contact</a></span><span class="textstyle5"><br/></span><span class="textstyle6"><a href="manual.html">Manual</a></span></div>
+<div class="textstyle2"><span class="textstyle7"><br/></span></div>
 </div></div>
 </div></div>
 <div style="clear:both"></div></div></div><div id="container_61f69dfd"><div class="textstyle1"><span class="textstyle7"><br/><br/><br/><br/></span><div id="container_65d20358"><div id="container_65d20358_padding" ><div class="textstyle2">  <span class="textstyle8">&#44060;&#51064;&#51221;&#48372; &#52376;&#47532;&#48169;&#52840; </span>

diff --git a/about.html b/about.html
@@ -5,7 +5,7 @@
 	<meta name="viewport" content="width=device-width, initial-scale=1">
 	<meta name="generator" content="RocketCake">
 	<title></title>
-	<link rel="stylesheet" type="text/css" href="about_html.css?h=68101e01">
+	<link rel="stylesheet" type="text/css" href="about_html.css?h=c3412394">
 </head>
 <body>
 <div class="textstyle1">
@@ -13,6 +13,7 @@
 <div class="textstyle1">  <span class="textstyle3">&#50628;&#51648;&#53412;&#48372;&#46300;</span>
 </div>
 </div></div><div id="container_53fe67b0"><div class="textstyle4"><div id="container_12dee79e"><div class="textstyle4"><span class="textstyle5"><a href="index.html">Home</a></span><span class="textstyle5"><br/></span><span class="textstyle5"><a href="about.html">About</a></span><span class="textstyle5"><br/></span><span class="textstyle5"><a href="contact.html">Contact</a></span><span class="textstyle5"><br/></span><span class="textstyle6"><a href="manual.html">Manual</a></span><span class="textstyle5"><br/></span></div>
+<div class="textstyle2"><span class="textstyle7"><br/></span></div>
 </div></div>
 </div></div>
 <div style="clear:both"></div></div></div><div id="container_66793a4f"><div class="textstyle1"><span class="textstyle7"><br/><br/><br/><br/></span><div id="container_24e3eb05"><div id="container_24e3eb05_padding" ><div class="textstyle2"></div>

diff --git a/about_html.css b/about_html.css
@@ -16,8 +16,8 @@ body { background-color:#FFFFFF; padding:0;  margin: 0; }
 #container_12dee79e { vertical-align: top; position:relative; display: inline-block; width:100%; background:none;  }
 .textstyle5 { font-size:14pt; font-family:Arial, Helvetica, sans-serif; color:#FFFFFF;  }
 .textstyle6 { font-size:14pt; font-family:Arial, Helvetica, sans-serif; color:#FFFFFF; font-weight:bold;  }
-#container_66793a4f { vertical-align: top; position:relative; display: inline-block; width:100%; min-height:205px; background-color:#AA967B; background-image: url(rc_images/notebook.jpg); background-position:center center; background-size:cover;  }
 .textstyle7 { font-size:12pt; font-family:Arial, Helvetica, sans-serif; color:#000000;  }
+#container_66793a4f { vertical-align: top; position:relative; display: inline-block; width:100%; min-height:205px; background-color:#AA967B; background-image: url(rc_images/notebook.jpg); background-position:center center; background-size:cover;  }
 #container_24e3eb05 { vertical-align: top; position:relative; display: inline-block; width:100%; background:none;  }
 #container_24e3eb05_padding { margin: 10px; display: block;  }
 .textstyle8 { font-size:32pt; font-family:Segoe, 'Segoe UI', 'Helvetica Neue', sans-serif; color:#FFFFFF; font-weight:bold; text-shadow: 2px 2px 4px #000000;  }

diff --git a/privacy_html.css b/privacy_html.css
@@ -16,8 +16,8 @@ body { background-color:#FFFFFF; padding:0;  margin: 0; }
 #container_367bebf6 { vertical-align: top; position:relative; display: inline-block; width:100%; background:none;  }
 .textstyle5 { font-size:14pt; font-family:Arial, Helvetica, sans-serif; color:#FFFFFF;  }
 .textstyle6 { font-size:14pt; font-family:Arial, Helvetica, sans-serif; color:#FFFFFF; font-weight:bold;  }
-#container_61f69dfd { vertical-align: top; position:relative; display: inline-block; width:100%; min-height:205px; background-color:#AA967B; background-image: url(rc_images/notebook.jpg); background-position:center center; background-size:cover;  }
 .textstyle7 { font-size:12pt; font-family:Arial, Helvetica, sans-serif; color:#000000;  }
+#container_61f69dfd { vertical-align: top; position:relative; display: inline-block; width:100%; min-height:205px; background-color:#AA967B; background-image: url(rc_images/notebook.jpg); background-position:center center; background-size:cover;  }
 #container_65d20358 { vertical-align: top; position:relative; display: inline-block; width:100%; background:none;  }
 #container_65d20358_padding { margin: 10px; display: block;  }
 .textstyle8 { font-size:32pt; font-family:Segoe, 'Segoe UI', 'Helvetica Neue', sans-serif; color:#FFFFFF; font-weight:bold; text-shadow: 2px 2px 4px #000000;  }
